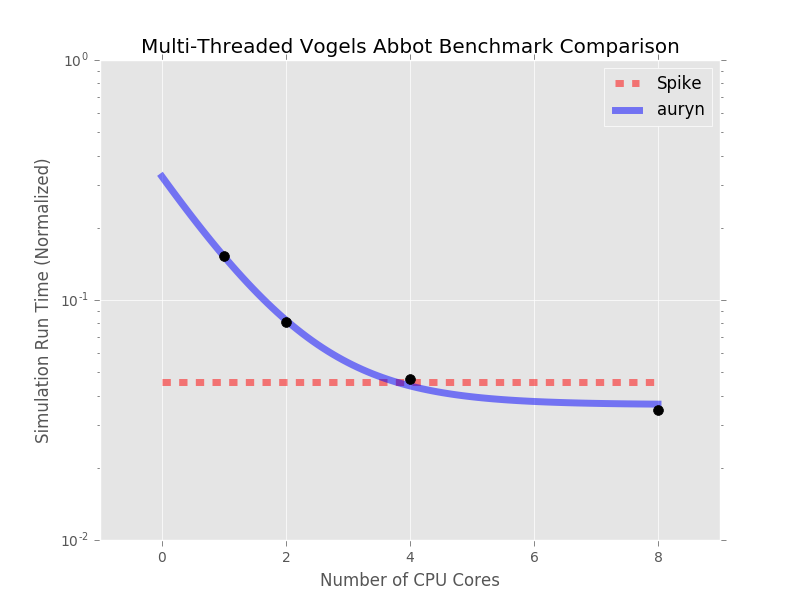
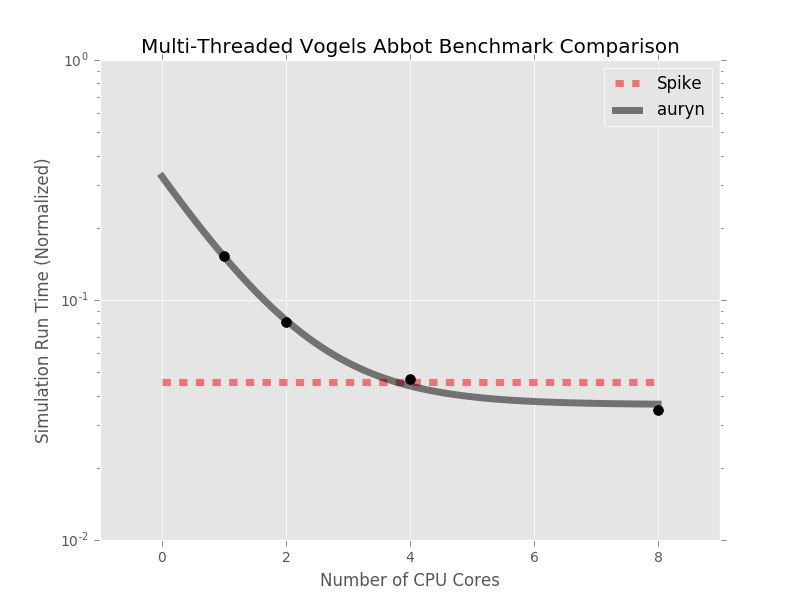
Color change, detail change.

diff --git a/Benchmarks/VogelsAbbott/_results/auryn_multithreaded/plotting.py b/Benchmarks/VogelsAbbott/_results/auryn_multithreaded/plotting.py
@@ -36,7 +36,7 @@ fig, ax = plt.subplots()
 ax.set_title("Multi-Threaded Vogels Abbot Benchmark Comparison")
 ax.scatter(AurynBenchmarkCores, AurynBenchmarks, color='k', zorder=2, s=50)
 ax.plot([0, 8], [SpikeBenchmark, SpikeBenchmark], color='r', linewidth = 5, alpha=0.5, zorder=1, label="Spike", linestyle='--')
-ax.plot(points, expfunc(points, *popt), color='b', linewidth = 5, alpha=0.5, zorder=1, label="auryn")
+ax.plot(points, expfunc(points, *popt), color='k', linewidth = 5, alpha=0.5, zorder=1, label="auryn")
 ax.legend()
 ax.set_xlabel("Number of CPU Cores")
 ax.set_ylabel("Simulation Run Time (Normalized)")

diff --git a/README.md b/README.md
@@ -33,7 +33,7 @@ A comparison of the ISI distributions, firing rasters, and firing rates is prese
 
 #### Multi-threaded Comparison
 ![Multi-threaded Comparison](Benchmarks/VogelsAbbott/_results/auryn_multithreaded/multithreaded_comparison.png)
-Above, only Spike and auryn are compared. Auryn is benchmarked with 1, 2, 4, and 8 threads on a system with a 16 core Intel Xeon E5-2623 v4. These benchmarks are shown as black points on the plot above. An exponential curve is fit to the auryn datapoints as shown in blue. For comparison, the single-threaded, single-GPU speed of Spike is shown in red to compare.
+Above, only Spike and auryn are compared. Auryn is benchmarked with 1, 2, 4, and 8 threads on a system with a 16 core Intel Xeon E5-2623 v4. These benchmarks are shown as black points on the plot above. An exponential decay curve is fit to the auryn datapoints as shown in black. For comparison, the single-threaded, single-GPU speed of Spike is shown in red to compare.
 
 ### Brunel 10,000 Neuron / 10^7 Synapse Plastic Network
 Source Paper:
